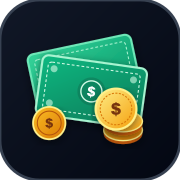
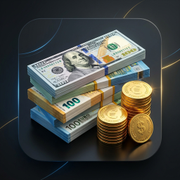
feat: actualizar icono con imagen fotorrealista de billetes y monedas en alta resolucion

diff --git a/src/app/page.tsx b/src/app/page.tsx
@@ -14,8 +14,8 @@ export default function DashboardScreen() {
   return (
     <div className="flex-1 w-full max-w-md mx-auto bg-gray-950 min-h-screen relative shadow-sm flex flex-col">
       <header className="bg-gray-800 text-white px-4 py-4 shadow-sm flex items-center justify-center gap-2.5 border-b border-gray-700">
-        <div className="w-8 h-8 rounded-lg overflow-hidden flex items-center justify-center bg-gray-900 border border-gray-700 shadow-inner">
-          <Image src="/icon.svg" alt="MiCartera Icon" width={28} height={28} />
+        <div className="w-9 h-9 rounded-xl overflow-hidden flex items-center justify-center bg-gray-900 border border-gray-700 shadow-md">
+          <Image src="/icon.png" alt="MiCartera Icon" width={36} height={36} className="object-cover" priority />
         </div>
         <h1 className="text-xl font-black tracking-tight text-white">MiCartera</h1>
       </header>

diff --git a/src/app/manifest.ts b/src/app/manifest.ts
@@ -11,9 +11,33 @@ export default function manifest(): MetadataRoute.Manifest {
     theme_color: '#1f2937',
     icons: [
       {
-        src: '/icon.svg',
-        sizes: 'any',
-        type: 'image/svg+xml',
+        src: '/icons/icon-192x192.png',
+        sizes: '192x192',
+        type: 'image/png',
+        purpose: 'any',
+      },
+      {
+        src: '/icons/icon-512x512.png',
+        sizes: '512x512',
+        type: 'image/png',
+        purpose: 'any',
+      },
+      {
+        src: '/icons/icon-192x192.png',
+        sizes: '192x192',
+        type: 'image/png',
+        purpose: 'maskable',
+      },
+      {
+        src: '/icons/icon-512x512.png',
+        sizes: '512x512',
+        type: 'image/png',
+        purpose: 'maskable',
+      },
+      {
+        src: '/icon.png',
+        sizes: '512x512',
+        type: 'image/png',
         purpose: 'any',
       },
     ],

diff --git a/src/app/layout.tsx b/src/app/layout.tsx
@@ -22,11 +22,12 @@ export const metadata: Metadata = {
     icon: [
       { url: "/icons/icon-192x192.png", sizes: "192x192", type: "image/png" },
       { url: "/icons/icon-512x512.png", sizes: "512x512", type: "image/png" },
-      { url: "/icon.svg", type: "image/svg+xml" }
+      { url: "/icon.png", sizes: "512x512", type: "image/png" },
+      { url: "/favicon.ico", sizes: "32x32" }
     ],
     apple: [
       { url: "/apple-touch-icon.png", sizes: "180x180", type: "image/png" },
-      { url: "/icon.svg", type: "image/svg+xml" }
+      { url: "/icons/icon-192x192.png", sizes: "192x192", type: "image/png" }
     ],
   },
   appleWebApp: {
